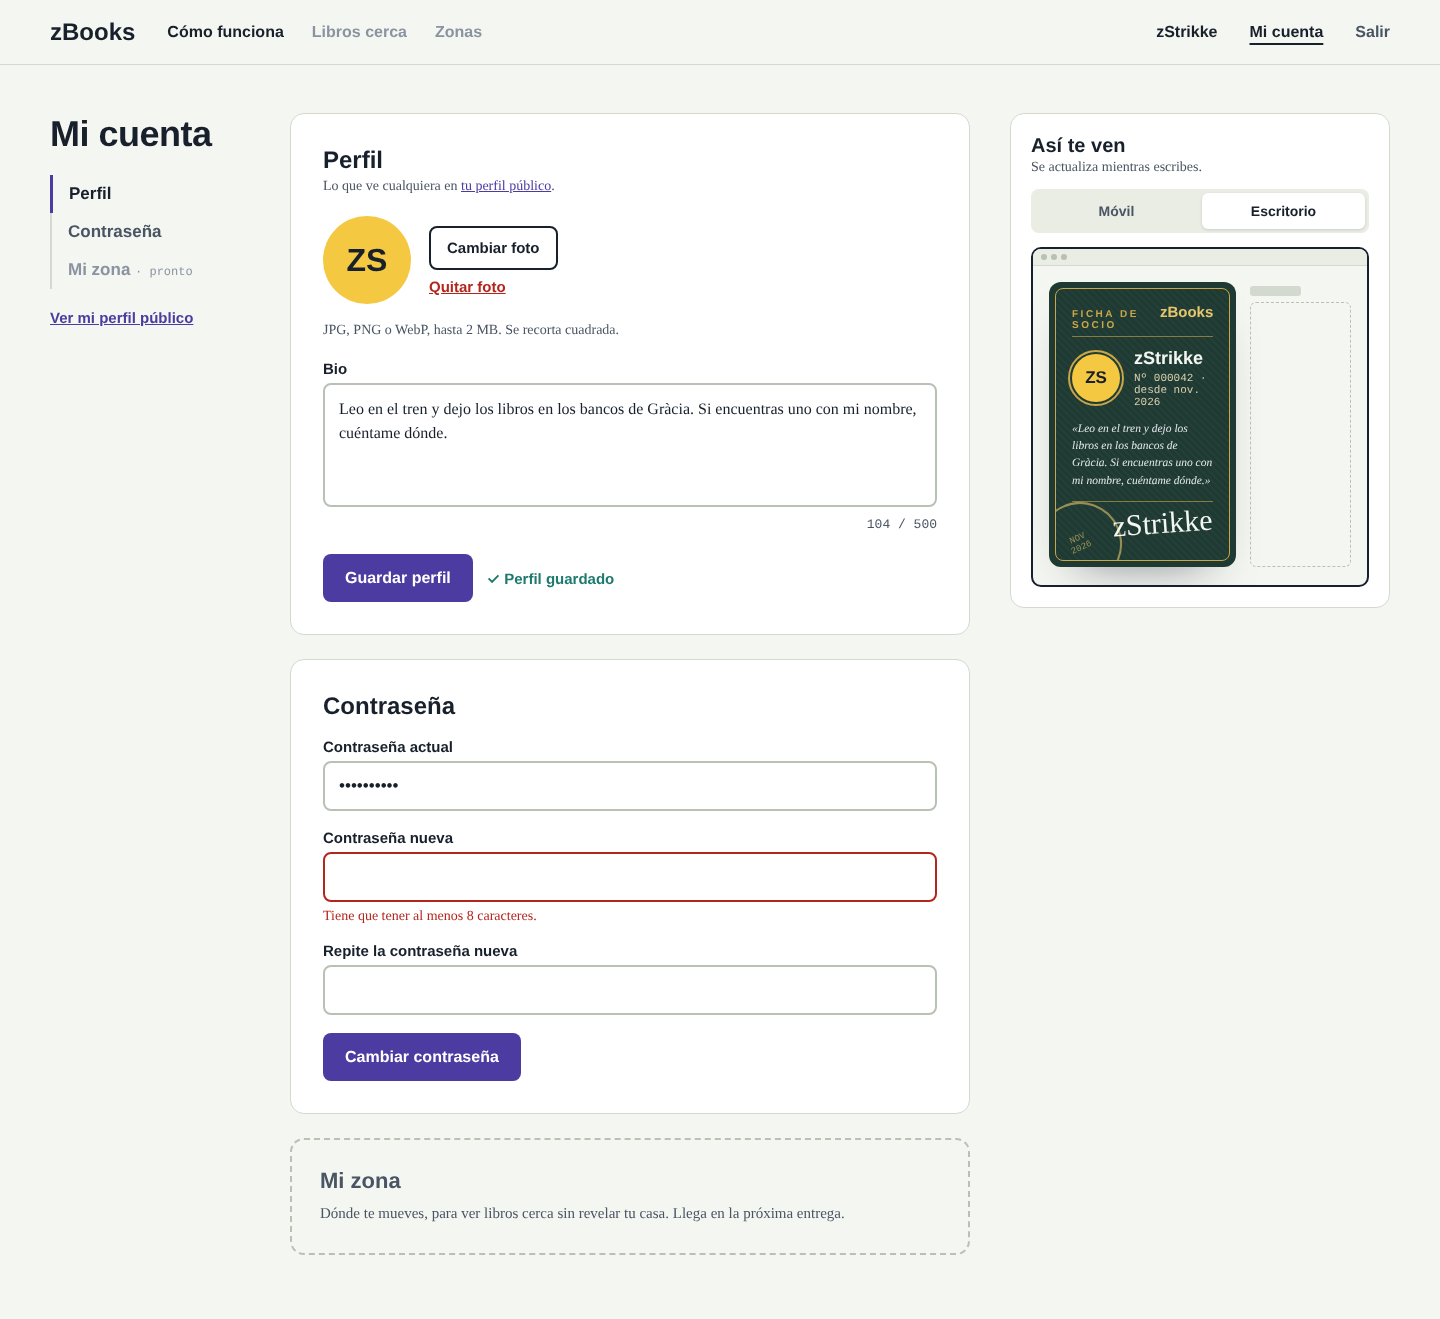
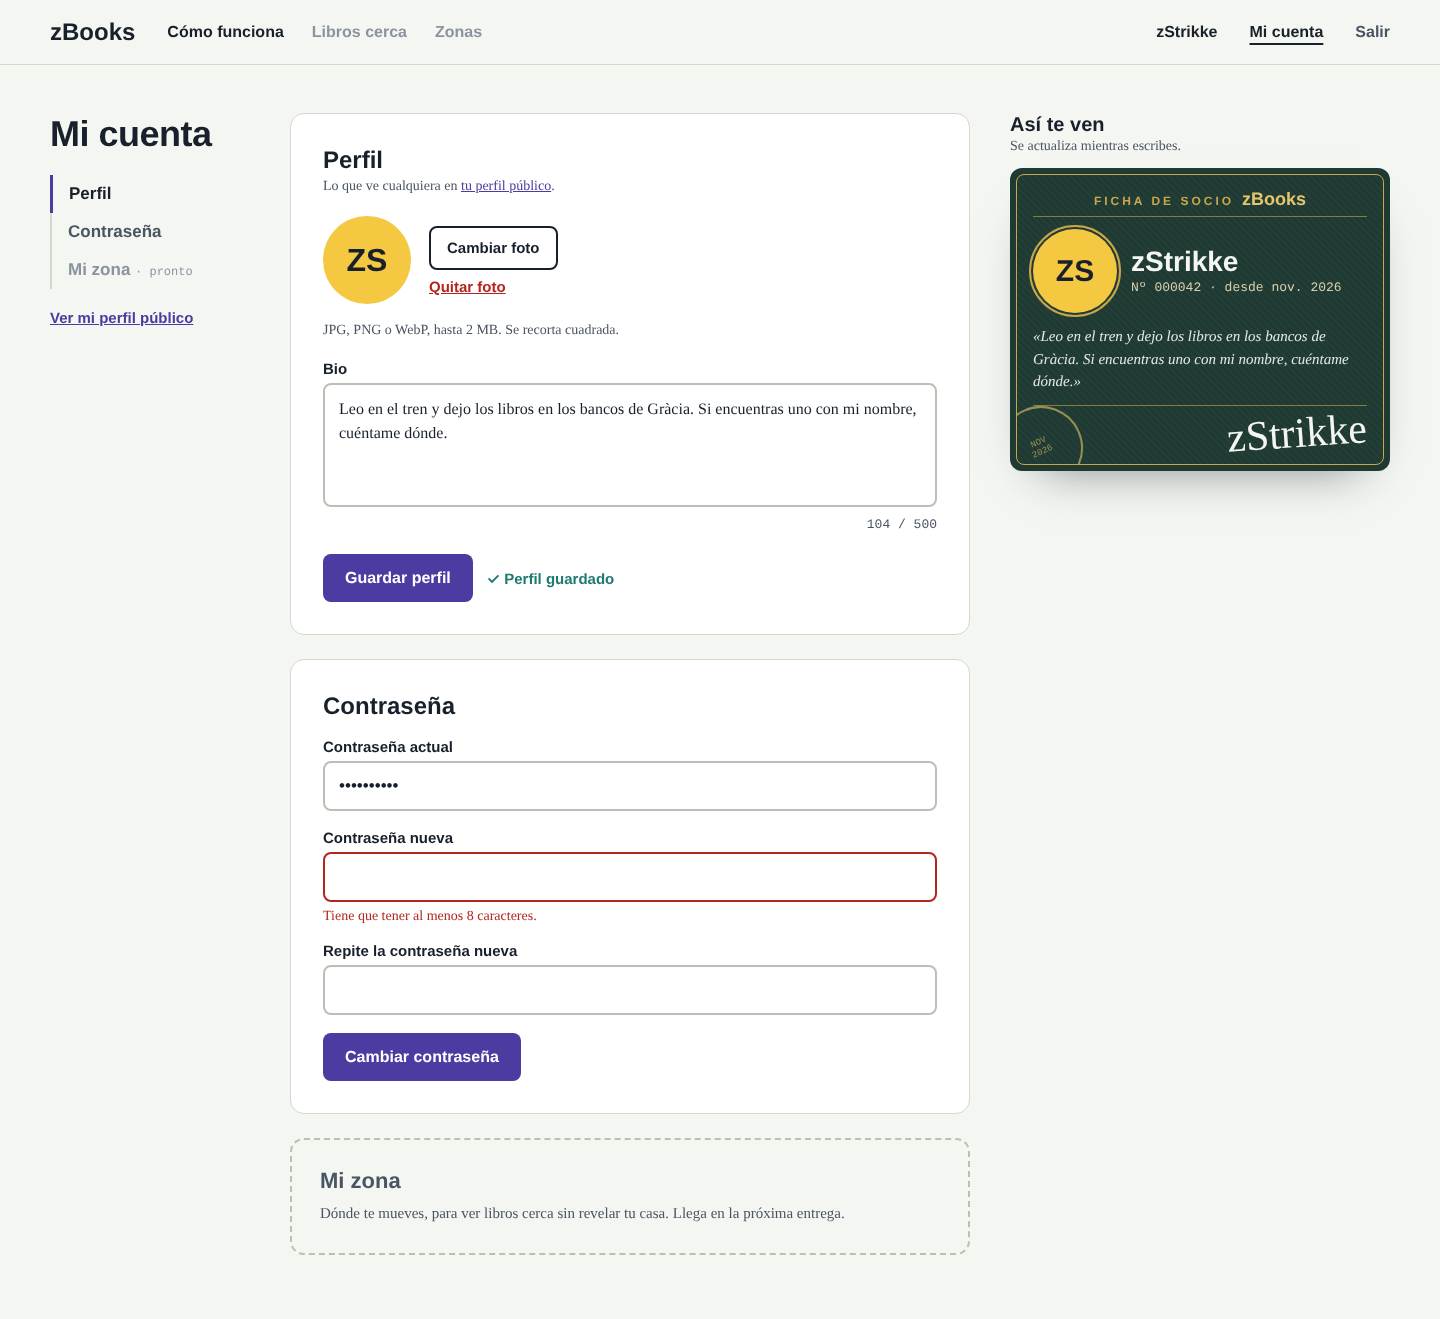
fix(cuenta): una sola vista previa de la ficha, sin pestañas (#80)
La ficha es casi igual en móvil y escritorio: las pestañas se veían
iguales. Queda la ficha a tamaño real, que sigue cambiando al escribir.

Claude-Session: https://claude.ai/code/session_01CNPkaWmQrEq7utmH7VieTy

Changed region(s): [[0.6875, 0.0933, 0.9688, 0.4663]]

diff --git a/docs/diseno/v0.2.0/html/escritorio-mi-cuenta.html b/docs/diseno/v0.2.0/html/escritorio-mi-cuenta.html
@@ -76,23 +76,22 @@ h2{margin:0;font-family:'Bricolage Grotesque',sans-serif;font-weight:800}
 <p style="margin:0;font-size:15px;line-height:1.5;color:#4a5563">Dónde te mueves, para ver libros cerca sin revelar tu casa. Llega en la próxima entrega.</p>
 </section>
 </div>
-<div style="flex:0 0 380px;position:sticky;top:24px"><section aria-label="Vista previa" class="card" style="width:100%;box-sizing:border-box;padding:20px;display:flex;flex-direction:column;gap:14px">
+<div style="flex:0 0 380px;position:sticky;top:24px"><section aria-label="Vista previa" style="display:flex;flex-direction:column;gap:14px">
 <div><h2 style="font-size:20px">Así te ven</h2><p class="help" style="margin-top:2px">Se actualiza mientras escribes.</p></div>
-<div role="tablist" aria-label="Pantalla" style="display:flex;gap:4px;padding:4px;border-radius:8px;background:#e9ede4"><button type="button" role="tab" aria-selected="false" style="flex:1;height:36px;border:0;border-radius:6px;font-family:'Bricolage Grotesque',sans-serif;font-size:14px;font-weight:700;background:transparent;color:#4a5563">Móvil</button><button type="button" role="tab" aria-selected="true" style="flex:1;height:36px;border:0;border-radius:6px;font-family:'Bricolage Grotesque',sans-serif;font-size:14px;font-weight:700;background:#fff;color:#17202b;box-shadow:0 1px 3px rgba(23,32,43,0.15)">Escritorio</button></div>
-<div style="border:2px solid #17202b;border-radius:10px;overflow:hidden;background:#f4f6f1"><div style="height:16px;background:#e9ede4;border-bottom:1px solid #d3d9cf;display:flex;gap:4px;align-items:center;padding-left:8px"><i style="width:6px;height:6px;border-radius:50%;background:#b9c1b4"></i><i style="width:6px;height:6px;border-radius:50%;background:#b9c1b4"></i><i style="width:6px;height:6px;border-radius:50%;background:#b9c1b4"></i></div><div style="padding:16px 16px 18px;display:flex;gap:14px"><div style="flex:0 0 62%"><div style="background:#1f3a33;border-radius:12px;padding:6px;box-shadow:0 24px 48px -30px rgba(23,32,43,0.6)">
+<div style="background:#1f3a33;border-radius:12px;padding:6px;box-shadow:0 24px 48px -30px rgba(23,32,43,0.6)">
 <div style="position:relative;overflow:hidden;border:1.5px solid #c9a64a;border-radius:8px;padding:14px 16px 12px;display:flex;flex-direction:column;gap:12px;color:#f4f6f1;background-image:repeating-linear-gradient(45deg,rgba(255,255,255,0.025) 0 2px,transparent 2px 5px)">
 <div style="display:flex;justify-content:center;align-items:baseline;gap:8px;border-bottom:1px solid rgba(201,166,74,0.6);padding-bottom:6px">
-<p style="margin:0;font-family:'Bricolage Grotesque',sans-serif;font-size:10px;font-weight:700;letter-spacing:2.5px;color:#c9a64a">FICHA DE SOCIO</p>
-<p style="margin:0;font-family:'Bricolage Grotesque',sans-serif;font-size:15px;font-weight:800;color:#e6c66a">zBooks</p></div>
+<p style="margin:0;font-family:'Bricolage Grotesque',sans-serif;font-size:12px;font-weight:700;letter-spacing:3px;white-space:nowrap;color:#c9a64a">FICHA DE SOCIO</p>
+<p style="margin:0;font-family:'Bricolage Grotesque',sans-serif;font-size:18px;font-weight:800;color:#e6c66a">zBooks</p></div>
 <div style="display:flex;gap:14px;align-items:center">
-<div style="width:48px;height:48px;flex-shrink:0;border-radius:50%;background:#f5c842;color:#17202b;outline:2px solid #c9a64a;outline-offset:2px;display:flex;align-items:center;justify-content:center;font-family:'Bricolage Grotesque',sans-serif;font-size:17px;font-weight:800">ZS</div>
-<div style="min-width:0"><p style="margin:0;font-family:'Bricolage Grotesque',sans-serif;font-size:18px;font-weight:800;line-height:1.1">zStrikke</p>
-<p style="margin:3px 0 0;font-family:'IBM Plex Mono',monospace;font-size:11px;color:#d8cfae">Nº 000042 · desde nov. 2026</p></div></div>
-<p style="margin:0;font-style:italic;font-size:11.5px;line-height:1.5;color:#e4e8ec">«Leo en el tren y dejo los libros en los bancos de Gràcia. Si encuentras uno con mi nombre, cuéntame dónde.»</p>
+<div style="width:84px;height:84px;flex-shrink:0;border-radius:50%;background:#f5c842;color:#17202b;outline:2px solid #c9a64a;outline-offset:2px;display:flex;align-items:center;justify-content:center;font-family:'Bricolage Grotesque',sans-serif;font-size:30px;font-weight:800">ZS</div>
+<div style="min-width:0"><p style="margin:0;font-family:'Bricolage Grotesque',sans-serif;font-size:28px;font-weight:800;line-height:1.1">zStrikke</p>
+<p style="margin:3px 0 0;font-family:'IBM Plex Mono',monospace;font-size:13px;color:#d8cfae">Nº 000042 · desde nov. 2026</p></div></div>
+<p style="margin:0;font-style:italic;font-size:15px;line-height:1.5;color:#e4e8ec">«Leo en el tren y dejo los libros en los bancos de Gràcia. Si encuentras uno con mi nombre, cuéntame dónde.»</p>
 <div style="display:flex;justify-content:flex-end;border-top:1px solid rgba(201,166,74,0.6);padding-top:6px;min-height:40px">
 <div aria-hidden="true" style="position:absolute;left:-18px;bottom:-26px;width:80px;height:80px;border-radius:50%;border:2px solid #e6c66a;opacity:0.6;transform:rotate(-24deg);display:flex;align-items:center;justify-content:center;font-family:'IBM Plex Mono',monospace;font-size:9px;color:#e6c66a;line-height:1.1;text-align:center">NOV<br>2026</div>
-<p style="margin:0 0 -4px;font-family:'Herr Von Muellerhoff',cursive;font-size:30px;line-height:1;transform:rotate(-4deg)">zStrikke</p></div>
-</div></div></div><div style="flex:1;display:flex;flex-direction:column;gap:6px;padding-top:4px"><i style="height:10px;width:50%;background:#d3d9cf;border-radius:3px"></i><i style="flex:1;border:1.5px dashed #b9c1b4;border-radius:6px"></i></div></div></div>
+<p style="margin:0 0 -4px;font-family:'Herr Von Muellerhoff',cursive;font-size:42px;line-height:1;transform:rotate(-4deg)">zStrikke</p></div>
+</div></div>
 </section></div>
 </main>
 </div>

diff --git a/docs/diseno/v0.2.0/html/movil-mi-cuenta.html b/docs/diseno/v0.2.0/html/movil-mi-cuenta.html
@@ -55,23 +55,22 @@ h2{margin:0;font-family:'Bricolage Grotesque',sans-serif;font-weight:800}
 <button class="btn" type="button">Guardar perfil</button>
 <p role="status" style="margin:0;font-size:15px;color:#1e7a6e;font-family:'Bricolage Grotesque',sans-serif;font-weight:600">✓ Perfil guardado</p>
 </div>
-</section><section aria-label="Vista previa" class="card" style="width:100%;box-sizing:border-box;padding:20px;display:flex;flex-direction:column;gap:14px">
+</section><section aria-label="Vista previa" style="display:flex;flex-direction:column;gap:14px">
 <div><h2 style="font-size:20px">Así te ven</h2><p class="help" style="margin-top:2px">Se actualiza mientras escribes.</p></div>
-<div role="tablist" aria-label="Pantalla" style="display:flex;gap:4px;padding:4px;border-radius:8px;background:#e9ede4"><button type="button" role="tab" aria-selected="true" style="flex:1;height:36px;border:0;border-radius:6px;font-family:'Bricolage Grotesque',sans-serif;font-size:14px;font-weight:700;background:#fff;color:#17202b;box-shadow:0 1px 3px rgba(23,32,43,0.15)">Móvil</button><button type="button" role="tab" aria-selected="false" style="flex:1;height:36px;border:0;border-radius:6px;font-family:'Bricolage Grotesque',sans-serif;font-size:14px;font-weight:700;background:transparent;color:#4a5563">Escritorio</button></div>
-<div style="margin:0 auto;width:250px;border:2px solid #17202b;border-radius:26px;padding:22px 10px 26px;background:#f4f6f1"><div style="background:#1f3a33;border-radius:12px;padding:6px;box-shadow:0 24px 48px -30px rgba(23,32,43,0.6)">
+<div style="background:#1f3a33;border-radius:12px;padding:6px;box-shadow:0 24px 48px -30px rgba(23,32,43,0.6)">
 <div style="position:relative;overflow:hidden;border:1.5px solid #c9a64a;border-radius:8px;padding:14px 16px 12px;display:flex;flex-direction:column;gap:12px;color:#f4f6f1;background-image:repeating-linear-gradient(45deg,rgba(255,255,255,0.025) 0 2px,transparent 2px 5px)">
 <div style="display:flex;justify-content:center;align-items:baseline;gap:8px;border-bottom:1px solid rgba(201,166,74,0.6);padding-bottom:6px">
-<p style="margin:0;font-family:'Bricolage Grotesque',sans-serif;font-size:10px;font-weight:700;letter-spacing:2.5px;color:#c9a64a">FICHA DE SOCIO</p>
-<p style="margin:0;font-family:'Bricolage Grotesque',sans-serif;font-size:15px;font-weight:800;color:#e6c66a">zBooks</p></div>
+<p style="margin:0;font-family:'Bricolage Grotesque',sans-serif;font-size:12px;font-weight:700;letter-spacing:3px;white-space:nowrap;color:#c9a64a">FICHA DE SOCIO</p>
+<p style="margin:0;font-family:'Bricolage Grotesque',sans-serif;font-size:18px;font-weight:800;color:#e6c66a">zBooks</p></div>
 <div style="display:flex;gap:14px;align-items:center">
-<div style="width:54px;height:54px;flex-shrink:0;border-radius:50%;background:#f5c842;color:#17202b;outline:2px solid #c9a64a;outline-offset:2px;display:flex;align-items:center;justify-content:center;font-family:'Bricolage Grotesque',sans-serif;font-size:19px;font-weight:800">ZS</div>
-<div style="min-width:0"><p style="margin:0;font-family:'Bricolage Grotesque',sans-serif;font-size:20px;font-weight:800;line-height:1.1">zStrikke</p>
-<p style="margin:3px 0 0;font-family:'IBM Plex Mono',monospace;font-size:11px;color:#d8cfae">Nº 000042 · desde nov. 2026</p></div></div>
-<p style="margin:0;font-style:italic;font-size:12.5px;line-height:1.5;color:#e4e8ec">«Leo en el tren y dejo los libros en los bancos de Gràcia. Si encuentras uno con mi nombre, cuéntame dónde.»</p>
+<div style="width:84px;height:84px;flex-shrink:0;border-radius:50%;background:#f5c842;color:#17202b;outline:2px solid #c9a64a;outline-offset:2px;display:flex;align-items:center;justify-content:center;font-family:'Bricolage Grotesque',sans-serif;font-size:30px;font-weight:800">ZS</div>
+<div style="min-width:0"><p style="margin:0;font-family:'Bricolage Grotesque',sans-serif;font-size:28px;font-weight:800;line-height:1.1">zStrikke</p>
+<p style="margin:3px 0 0;font-family:'IBM Plex Mono',monospace;font-size:13px;color:#d8cfae">Nº 000042 · desde nov. 2026</p></div></div>
+<p style="margin:0;font-style:italic;font-size:15px;line-height:1.5;color:#e4e8ec">«Leo en el tren y dejo los libros en los bancos de Gràcia. Si encuentras uno con mi nombre, cuéntame dónde.»</p>
 <div style="display:flex;justify-content:flex-end;border-top:1px solid rgba(201,166,74,0.6);padding-top:6px;min-height:40px">
 <div aria-hidden="true" style="position:absolute;left:-18px;bottom:-26px;width:80px;height:80px;border-radius:50%;border:2px solid #e6c66a;opacity:0.6;transform:rotate(-24deg);display:flex;align-items:center;justify-content:center;font-family:'IBM Plex Mono',monospace;font-size:9px;color:#e6c66a;line-height:1.1;text-align:center">NOV<br>2026</div>
-<p style="margin:0 0 -4px;font-family:'Herr Von Muellerhoff',cursive;font-size:32px;line-height:1;transform:rotate(-4deg)">zStrikke</p></div>
-</div></div></div>
+<p style="margin:0 0 -4px;font-family:'Herr Von Muellerhoff',cursive;font-size:42px;line-height:1;transform:rotate(-4deg)">zStrikke</p></div>
+</div></div>
 </section>
 <section id="contrasena" class="card" style="padding:20px;display:flex;flex-direction:column;gap:18px">
 <h2 style="font-size:24px">Contraseña</h2>

diff --git a/resources/views/account/show.blade.php b/resources/views/account/show.blade.php
@@ -103,47 +103,14 @@
                 @endif
             </section>
 
-            {{-- Vista previa: la ficha del perfil público, en móvil o en escritorio --}}
-            <section aria-labelledby="vista-titulo" x-data="{ pestana: 'movil' }"
-                     class="flex flex-col gap-3.5 self-start rounded-[14px] border border-linea bg-white p-5 lg:col-start-2 xl:sticky xl:top-6 xl:col-start-3 xl:row-span-3 xl:row-start-1">
+            {{-- Vista previa: la ficha del perfil público a tamaño real; cambia mientras se escribe (#80) --}}
+            <section aria-labelledby="vista-titulo"
+                     class="flex flex-col gap-3.5 self-start lg:col-start-2 xl:sticky xl:top-6 xl:col-start-3 xl:row-span-3 xl:row-start-1">
                 <div>
                     <h2 id="vista-titulo" class="text-xl font-extrabold">{{ __('How others see you') }}</h2>
                     <p class="text-sm text-tinta-suave">{{ __('It updates as you type.') }}</p>
                 </div>
-
-                <div role="tablist" aria-label="{{ __('Screen') }}" class="flex gap-1 rounded-lg bg-papel-hondo p-1"
-                     @keydown.right.prevent="pestana = 'escritorio'; $nextTick(() => $refs.escritorio.focus())"
-                     @keydown.left.prevent="pestana = 'movil'; $nextTick(() => $refs.movil.focus())">
-                    @foreach (['movil' => __('Mobile'), 'escritorio' => __('Desktop')] as $clave => $texto)
-                        <button type="button" role="tab" id="pestana-{{ $clave }}" x-ref="{{ $clave }}" aria-controls="panel-{{ $clave }}"
-                                @click="pestana = '{{ $clave }}'"
-                                :aria-selected="pestana === '{{ $clave }}'" aria-selected="{{ $clave === 'movil' ? 'true' : 'false' }}"
-                                :tabindex="pestana === '{{ $clave }}' ? 0 : -1" tabindex="{{ $clave === 'movil' ? 0 : -1 }}"
-                                :class="pestana === '{{ $clave }}' ? 'bg-white text-tinta shadow-sm' : 'text-tinta-suave'"
-                                class="h-9 flex-1 rounded-md text-sm font-bold">
-                            {{ $texto }}
-                        </button>
-                    @endforeach
-                </div>
-
-                {{-- Cada marco pinta la pantalla a tamaño real y la reduce con zoom --}}
-                <div id="panel-movil" role="tabpanel" aria-labelledby="pestana-movil" x-show="pestana === 'movil'"
-                     class="mx-auto w-fit rounded-[28px] border-2 border-tinta bg-papel px-2 pb-6 pt-5">
-                    <div class="w-90 px-5 [zoom:0.7]">
-                        <x-member-card :user="$user" size="movil" live />
-                    </div>
-                </div>
-
-                <div id="panel-escritorio" role="tabpanel" aria-labelledby="pestana-escritorio" x-show="pestana === 'escritorio'" x-cloak
-                     class="overflow-hidden rounded-[10px] border-2 border-tinta bg-papel">
-                    <div aria-hidden="true" class="flex h-4 items-center gap-1 border-b border-linea bg-papel-hondo pl-2">
-                        <i class="size-1.5 rounded-full bg-linea-fuerte"></i><i class="size-1.5 rounded-full bg-linea-fuerte"></i><i class="size-1.5 rounded-full bg-linea-fuerte"></i>
-                    </div>
-                    {{-- Solo la ficha, centrada y con el ancho que tiene en el perfil de escritorio (#80) --}}
-                    <div class="flex w-120 justify-center p-8 [zoom:0.62]">
-                        <x-member-card :user="$user" size="escritorio" live class="w-85" />
-                    </div>
-                </div>
+                <x-member-card :user="$user" live class="w-full max-w-100" />
             </section>
         </div>
 

diff --git a/tests/Feature/MiCuentaTest.php b/tests/Feature/MiCuentaTest.php
@@ -31,8 +31,7 @@ describe('acceso', function () {
     it('muestra las secciones y la vista previa de la ficha', function () {
         $this->actingAs($this->user)->get('/account')
             ->assertOk()
-            ->assertSeeText(['Mi cuenta', 'Perfil', 'Así te ven', 'Móvil', 'Escritorio', 'Contraseña', 'Mi zona'])
-            ->assertSee('role="tablist"', false)
+            ->assertSeeText(['Mi cuenta', 'Perfil', 'Así te ven', 'Contraseña', 'Mi zona'])
             ->assertSee('Nº '.$this->user->memberNumber());
     });
 

diff --git a/docs/DIARIO.md b/docs/DIARIO.md
@@ -911,11 +911,14 @@ Que un `git pull` no deje el entorno a medias. Al revisar la #77, la ficha de so
 
 ---
 
-## [2026-11-05] #030 — Vista previa de escritorio solo con la ficha (#80)
+## [2026-11-05] #030 — Una sola vista previa de la ficha (#80)
 **Iteración:** 1 (v0.2.0)
 
 ### Hecho
-- La pestaña Escritorio de «Así te ven» deja de pintar la columna del blog (una caja gris y un recuadro discontinuo sin texto) y muestra la ficha centrada, con el ancho que tiene en el perfil de escritorio.
+- **«Así te ven» pasa a una sola vista previa:** la ficha a tamaño real, como sale en el perfil, sin pestañas, marcos ni `zoom`. Sigue cambiando mientras se escribe.
+- **Maqueta del lienzo y `docs/diseno`** actualizadas.
 
 ### Decisiones
-- **El PO prefiere ver solo la ficha:** la vista previa sirve para comprobar que el nombre y la bio no quedan descuadrados, no para reproducir la página entera.
+- **Fuera las pestañas Móvil y Escritorio.** La ficha es una tarjeta de tamaño casi fijo: entre móvil y escritorio solo cambian un poco el avatar y el nombre, así que las dos pestañas se veían iguales. Además, la columna del blog de la pestaña Escritorio, sin texto, parecía un fallo. La vista previa sirve para ver que el nombre y la bio no quedan descuadrados, y para eso basta una.
+- **Si algún día la ficha cambia mucho entre pantallas,** las pestañas vuelven sin dificultad.
+- El arreglo de la altura de las pestañas (3ced523) llegó a la rama después de fusionar la #77 y nunca pasó a `master`; con este cambio ya no hace falta.

diff --git a/docs/diseno/README.md b/docs/diseno/README.md
@@ -28,4 +28,4 @@ Criterios comunes: **mobile-first** (el móvil se diseña primero), los colores 
 | Perfil público | [captura](v0.2.0/capturas/movil-perfil-publico.png) · [html](v0.2.0/html/movil-perfil-publico.html) | [captura](v0.2.0/capturas/escritorio-perfil-publico.png) · [html](v0.2.0/html/escritorio-perfil-publico.html) | #16 |
 | Mi cuenta | [captura](v0.2.0/capturas/movil-mi-cuenta.png) · [html](v0.2.0/html/movil-mi-cuenta.html) | [captura](v0.2.0/capturas/escritorio-mi-cuenta.png) · [html](v0.2.0/html/escritorio-mi-cuenta.html) | #17 |
 
-**Ideas de cada pantalla en escritorio:** la tarjeta de viaje con sellos (registro), la etiqueta troquelada con el buscador de código (login), el matasellos (verificación), la ficha de socio (perfil; en el lienzo están las tres opciones que se valoraron) y su vista previa con pestañas Móvil y Escritorio (Mi cuenta). Las cifras, lugares y textos entre corchetes son datos de ejemplo.
+**Ideas de cada pantalla en escritorio:** la tarjeta de viaje con sellos (registro), la etiqueta troquelada con el buscador de código (login), el matasellos (verificación), la ficha de socio (perfil; en el lienzo están las tres opciones que se valoraron) y su vista previa a tamaño real (Mi cuenta). Las cifras, lugares y textos entre corchetes son datos de ejemplo.

diff --git a/CHANGELOG.md b/CHANGELOG.md
@@ -34,7 +34,7 @@ Formato basado en [Keep a Changelog](https://keepachangelog.com/es-ES/1.1.0/) y 
 - Symfony 8.1.11 y contratos 3.8.1 por avisos de seguridad; `composer audit` limpio (#60).
 
 ### Fixed
-- La pestaña Escritorio de «Así te ven» (Mi cuenta) muestra solo la ficha, centrada, sin la columna del blog que parecía un fallo (#80).
+- «Así te ven» (Mi cuenta) muestra una sola vista previa de la ficha, a tamaño real, en lugar de las pestañas Móvil y Escritorio: la ficha es casi igual en las dos y la columna del blog de la pestaña Escritorio parecía un fallo (#80).
 
 ## [0.1.0] - 2026-11-01
 
